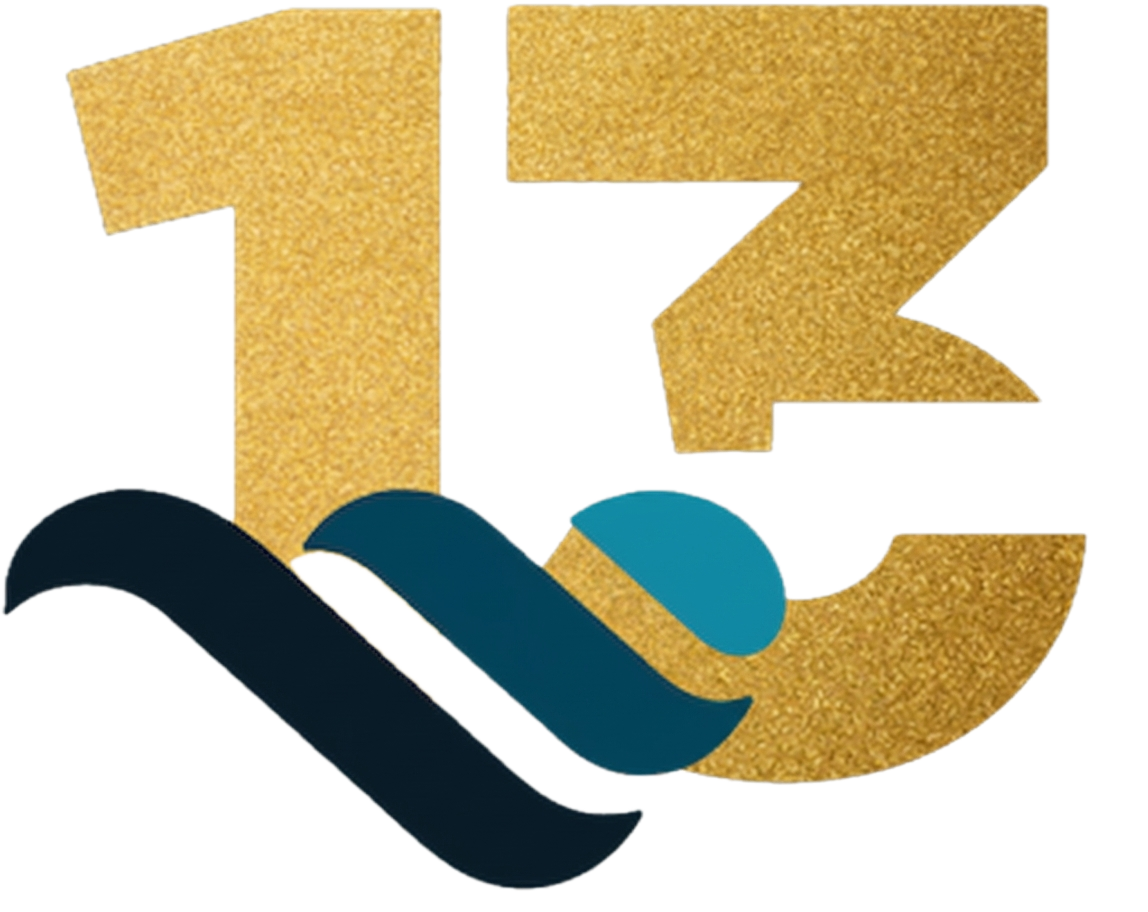
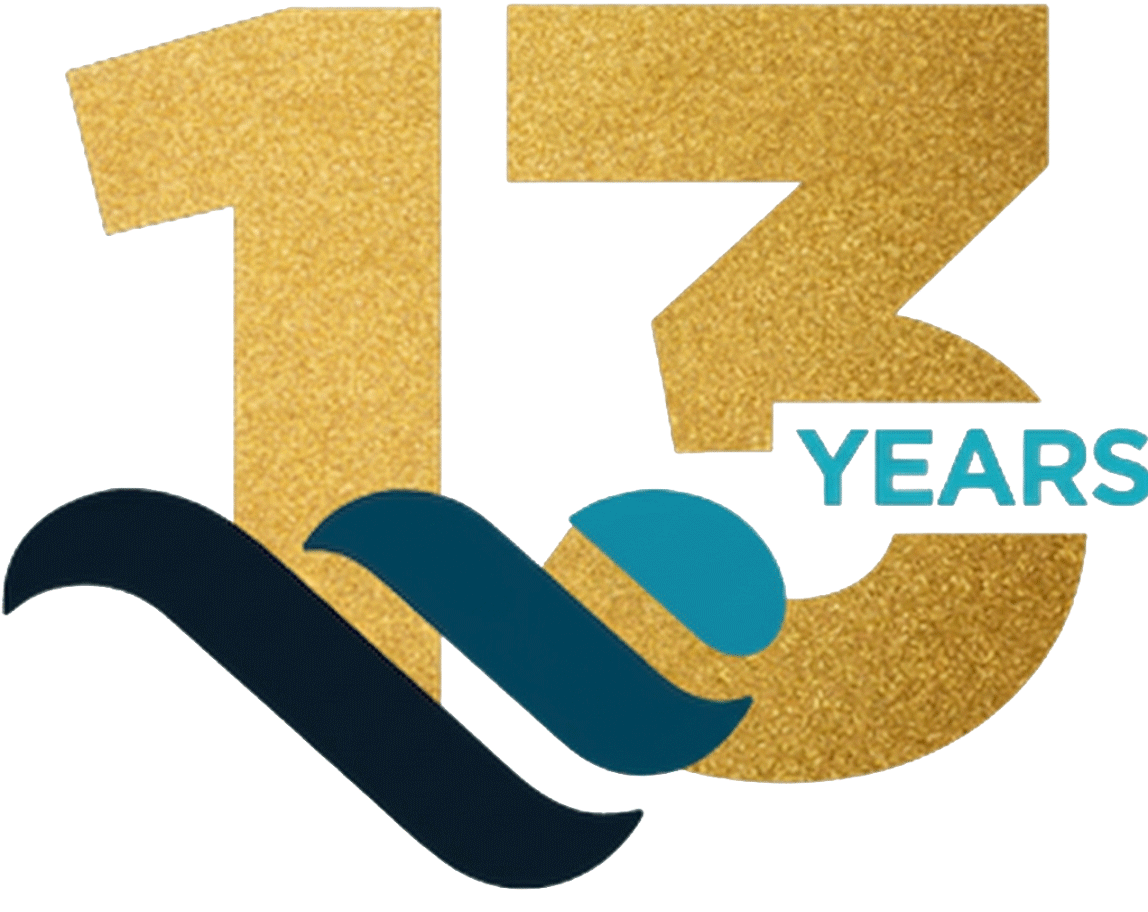
nuevas imagenes tech, 13 años y faq

diff --git a/lib/pools.ts b/lib/pools.ts
@@ -215,7 +215,7 @@ export const pools: Pool[] = [
     images: [
       '/iso-models/Pools/Neblina-Grande/Showroom/Neblina-Grande_Blythewood_11-1.avif',
       '/iso-models/Pools/Neblina-Grande/Showroom/IMG_5452-scaled.webp',
-      '/iso-models/Pools/Neblina-Grande/rShowroom/Neblina-Grande-8.jpg.JPEG.webp',
+      '/iso-models/Pools/Neblina-Grande/Showroom/Neblina-Grande-8.jpg.JPEG.webp',
       '/iso-models/Pools/Neblina-Grande/Showroom/Neblina-Grande-Tropical-Blue-1.-AquaPat-2024.webp',
     ],
     imagesIsoModels: [
@@ -223,7 +223,7 @@ export const pools: Pool[] = [
       '/iso-models/Pools/Neblina-Grande/Neblina-Grande-iso.png',
       '/iso-models/Pools/Neblina-Grande/Neblina-Grande-iso-2.png',
       '/iso-models/Pools/Neblina-Grande/Neblina-Grande-Pool-FBs.webp',
-      // '/iso-models/Pools/Neblina-Grande/neblina-grande-tech.png',
+      '/iso-models/Pools/Neblina-Grande/neblina-grande-tech-p.png',
     ],
     colors: poolColorNames,
     description: poolDesc('Neblina Grande', 'R1', "8'", "16'", "5'", 3500, 'rectangle'),
@@ -248,7 +248,7 @@ export const pools: Pool[] = [
       '/iso-models/Pools/Cali-Cove/Cali-Cove-plan.png',
       '/iso-models/Pools/Cali-Cove/Cali-Cove-iso.png',
       '/iso-models/Pools/Cali-Cove/Cali-Cove-iso-2.png',
-      // '/iso-models/Pools/Cali-Cove/Cali-Cove-tech.png',
+      '/iso-models/Pools/Cali-Cove/Cali-Cove-tech-p.png',
     ],
     colors: poolColorNames,
     description: poolDesc('Cali Cove', 'R4', '11\'6"', '22\'8"', '10"-3\'6"-5\'', 7000, 'freeform'),
@@ -274,7 +274,7 @@ export const pools: Pool[] = [
       '/iso-models/Pools/Costa-Rica/Costa-Rica-Pool-plan.png',
       '/iso-models/Pools/Costa-Rica/Costa-Rica-Pool-iso.png',
       '/iso-models/Pools/Costa-Rica/Costa-Rica-Pool-iso-2.png',
-      // '/iso-models/Pools/Costa-Rica/Costa-Rica-Pool-tech.png',
+      '/iso-models/Pools/Costa-Rica/Costa-Rica-tech-p.png',
     ],
     colors: poolColorNames,
     description: poolDesc('Costa Rica', 'R5', "12'", "25'", '3\'5"-5\'6"', 7000, 'freeform'),
@@ -300,7 +300,7 @@ export const pools: Pool[] = [
       '/iso-models/Pools/Costa-Beach/Costa-Beach-plan.png',
       '/iso-models/Pools/Costa-Beach/Costa-Beach-iso.png',
       '/iso-models/Pools/Costa-Beach/Costa-Beach-iso-2.png',
-      // '/iso-models/Pools/Costa-Beach/Costa-Beach-tech.png',
+      '/iso-models/Pools/Costa-Beach/Costa-Beach-tech-p.png',
     ],
     colors: poolColorNames,
     description: poolDesc('Costa Beach', 'R10', "12'", "27'", '10"-3\'6"-5\'6"', 7000, 'beach-entry'),
@@ -325,7 +325,7 @@ export const pools: Pool[] = [
       '/iso-models/Pools/Neblina-Beach/Neblina-Beach-plan.png',
       '/iso-models/Pools/Neblina-Beach/Neblina-Beach-iso.png',
       '/iso-models/Pools/Neblina-Beach/Neblina-Beach-iso-2.png',
-      '/iso-models/Pools/Neblina-Beach/Neblina-Beach-tech.png',
+      '/iso-models/Pools/Neblina-Beach/Neblina-Beach-tech-p.png',
       '/iso-models/Pools/Neblina-Beach/Neblina-Beach-with-Markup.webp',
     ],
     colors: poolColorNames,
@@ -351,7 +351,8 @@ export const pools: Pool[] = [
       '/iso-models/Pools/Colombian-Cove/Columbian-Cove-plan.png',
       '/iso-models/Pools/Colombian-Cove/Columbian-Cove-iso.png',
       '/iso-models/Pools/Colombian-Cove/Columbian-Cove-iso-2.png',
-      // '/iso-models/Pools/Colombian-Cove/Columbian-Cove-tech.png',
+      '/iso-models/Pools/Colombian-Cove/Colombia-Cove-tech-p.png',
+      
     ],
     colors: poolColorNames,
     description: poolDesc('Colombian Cove', 'R3', '11\'6"', '26\'4"', '10"-3\'6"-5\'4"', 7500, 'freeform'),
@@ -375,7 +376,7 @@ export const pools: Pool[] = [
       '/iso-models/Pools/Colombian/Columbian-Pool-plan.png',
       '/iso-models/Pools/Colombian/Columbian-Pool-iso.png',
       '/iso-models/Pools/Colombian/Columbian-Pool-iso-2.png',
-      // '/iso-models/Pools/Colombian/Columbian-Pool-tech.png',
+      '/iso-models/Pools/Colombian/Columbian-Pool-tech-p.png',
     ],
     colors: poolColorNames,
     description: poolDesc('Colombian', 'R2', '11\'5"', '26\'4"', '3\'6"-5\'4"', 8000, 'rectangle'),
@@ -401,7 +402,7 @@ export const pools: Pool[] = [
       '/iso-models/Pools/Colombian-Beach/Columbian-Beach-iso.png',
       '/iso-models/Pools/Colombian-Beach/Columbian-Beach-iso-2.png',      
       '/iso-models/Pools/Colombian-Beach/Columbian-Beach-FBs.png',
-      // '/iso-models/Pools/Colombian-Beach/Columbian-Beach-tech.png',
+      '/iso-models/Pools/Colombian-Beach/Columbian-Beach-tech-p.png',
     ],
     colors: poolColorNames,
     description: poolDesc('Colombian Beach', 'R9', '11\'6"', "32'", '10"-3\'6"-5\'4"', 9000, 'beach-entry'),
@@ -425,7 +426,7 @@ export const pools: Pool[] = [
     imagesIsoModels: [
       '/iso-models/Pools/Roatan/Roatan-Pool-plan.png',
       '/iso-models/Pools/Roatan/Roatan-Pool-iso.png',
-      // '/iso-models/Pools/Roatan/Roatan-Pool-tech.png',
+      '/iso-models/Pools/Roatan/Roatan-Pool-tech-p.png',
     ],
     colors: poolColorNames,
     description: poolDesc('Roatan', 'R6', "14'", "30'", '3\'5"-5\'11"', 10000, 'freeform'),
@@ -451,7 +452,7 @@ export const pools: Pool[] = [
       '/iso-models/Pools/Roatan-Beach/Roatan-Beach-plan.png',
       '/iso-models/Pools/Roatan-Beach/Roatan-Beach-iso.png',
       '/iso-models/Pools/Roatan-Beach/Roatan-Beach-iso-2.png',
-      // '/iso-models/Pools/Roatan-Beach/Roatan-Beach-tech.png',
+      '/iso-models/Pools/Roatan-Beach/Roatan-Beach-tech-p.png',
     ],
     colors: poolColorNames,
     description: poolDesc('Roatan Beach', 'R12', "14'", "35'", '10"-3\'6"-5\'11"', 10000, 'beach-entry'),
@@ -476,7 +477,7 @@ export const pools: Pool[] = [
       '/iso-models/Pools/Brasilia/Showroom/Brasilia-scaled.webp',
     ],
     imagesIsoModels: [
-      // '/iso-models/Pools/Brasilia/Brasilia-Tech.png',
+      '/iso-models/Pools/Brasilia/Brasilia-Tech-p.png',
       '/iso-models/Pools/Brasilia/Brasilia-Pool-FBs.png',
     ],
     colors: poolColorNames,
@@ -502,7 +503,7 @@ export const pools: Pool[] = [
     imagesIsoModels: [
       '/iso-models/Pools/Belize/Belize-Pool-plan.png',
       '/iso-models/Pools/Belize/Belize-Pool-iso.png',
-      // '/iso-models/Pools/Belize/Belize-Tech.png',
+      '/iso-models/Pools/Belize/Belize-Pool-tech-p.png',
     ],
     colors: poolColorNames,
     description: poolDesc('Belize', 'R8', "14'", "29'", "4'-6'", 11500, 'freeform'),
@@ -523,7 +524,7 @@ export const pools: Pool[] = [
       '/iso-models/Pools/Colombian-Resort/Showroom/Colombian-Resort-2.webp',
     ],
     imagesIsoModels: [
-      // '/iso-models/Pools/Colombian-Resort/Columbia-Resort-tech.png',
+      '/iso-models/Pools/Colombian-Resort/Colombian-Resort-tech-p.png',
     ],
     colors: poolColorNames,
     description: poolDesc('Colombian Resort', 'R13', "12'", "33'", '3\'5"-5\'4"', 7100, 'freeform'),
@@ -590,7 +591,7 @@ export const pools: Pool[] = [
     imagesIsoModels: [
       '/iso-models/Spas/Quatro/Quatro-Spa-plan.png',
       '/iso-models/Spas/Quatro/Quatro-Spa-iso.png',
-      // '/iso-models/Spas/Quatro/Quatro-Spa-tech.png',
+      '/iso-models/Spas/Quatro/Quatro-Spa-tech-p.png',
     ],
     colors: poolColorNames,
     description: spaDesc('Quatro', 'RS1', "8'", "8'", '3\'6"', 800),
@@ -614,7 +615,7 @@ export const pools: Pool[] = [
     imagesIsoModels: [
       '/iso-models/Spas/Cumba/Cumba-Spa-plan.png',
       '/iso-models/Spas/Cumba/Cumba-Spa-iso.png',
-      // '/iso-models/Spas/Cumba/Cumba-Spa-tech.png',
+      '/iso-models/Spas/Cumba/Cumba-Spa-tech-p.png',
     ],
     colors: poolColorNames,
     description: spaDesc('Cumba', 'RS2', "8'", "8'", '3\'7"', 800),
@@ -642,7 +643,7 @@ export const pools: Pool[] = [
     imagesIsoModels: [
       '/iso-models/Spas/Neblina/Neblina-Spa-plan.png',
       '/iso-models/Spas/Neblina/Neblina-Spa-iso.png',
-     // '/iso-models/Spas/Neblina/Neblina-Spa-tech.png',
+      '/iso-models/Spas/Neblina/Neblina-Spa-tech-p.png',
     ],
     colors: poolColorNames,
     description: spaDesc('Neblina', 'RS3', "8'", "10'", '3\'6"', 950),
@@ -664,7 +665,7 @@ export const pools: Pool[] = [
     imagesIsoModels: [      
       '/iso-models/Ledges/Natal-Ledge/Natal-Tan-Ledge-plan.png',
       '/iso-models/Ledges/Natal-Ledge/Natal-Tan-Ledge-iso.png',
-      // '/iso-models/Ledges/Natal-Ledge/Natal-Tan-Ledge-tech.png',
+      '/iso-models/Ledges/Natal-Ledge/Natal-Tan-Ledge-tech-p.png',
     ],
     colors: poolColorNames,
     description: ledgeDesc('Natal Ledge', 'RL1', "8'", "8'", '10"', 250),
@@ -686,7 +687,7 @@ export const pools: Pool[] = [
     imagesIsoModels: [
       '/iso-models/Ledges/Rio-Ledge/Rio-Tan-Ledge-plan.png',
       '/iso-models/Ledges/Rio-Ledge/Rio-Tan-Ledge-iso.png',
-     // '/iso-models/Ledges/Rio-Ledge/Rio-Tan-Ledge-tech.png',
+      '/iso-models/Ledges/Rio-Ledge/Rio-Tan-Ledge-tech-p.png',
     ],
     colors: poolColorNames,
     description: ledgeDesc('Rio Ledge', 'RL2', "8'", "10'", '10"', 400),

diff --git a/app/[locale]/layout.tsx b/app/[locale]/layout.tsx
@@ -1,5 +1,5 @@
 import type { Metadata } from 'next';
-import { Inter, Playfair_Display } from 'next/font/google';
+import { DM_Sans, Inter, Playfair_Display } from 'next/font/google';
 import { NextIntlClientProvider } from 'next-intl';
 import {  setRequestLocale } from 'next-intl/server';
 import { notFound } from 'next/navigation';
@@ -23,6 +23,12 @@ const inter = Inter({
 const playfair = Playfair_Display({
   subsets: ['latin'],
   variable: '--font-display',
+  display: 'swap',
+});
+
+const dmSans = DM_Sans({
+  subsets: ['latin'],
+  variable: '--font-about-body',
   display: 'swap',
 });
 
@@ -125,7 +131,7 @@ export default async function LocaleLayout({
   const messages = (await import(`@/messages/${params.locale}.json`)).default;
 
   return (
-    <html lang={params.locale} className={`${inter.variable} ${playfair.variable}`}>
+    <html lang={params.locale} className={`${inter.variable} ${playfair.variable} ${dmSans.variable}`}>
       <head>
         <script
           type="application/ld+json"

diff --git a/app/[locale]/faq/page.tsx b/app/[locale]/faq/page.tsx
@@ -93,7 +93,7 @@ export default function FaqsPage({ params: { locale } }: { params: { locale: str
           </div>
           <div className="glass-card overflow-hidden lg:sticky lg:top-28 relative aspect-[4/3]">
             <Image
-              src="/faq/img-faq.png"
+              src="/faq/img-faq-p.png"
               alt="Fiberglass pool FAQ"
               fill
               sizes="(max-width: 1024px) 100vw, 600px"

diff --git a/app/[locale]/info/faqs/page.tsx b/app/[locale]/info/faqs/page.tsx
@@ -93,7 +93,7 @@ export default function FaqsPage({ params: { locale } }: { params: { locale: str
           </div>
           <div className="glass-card overflow-hidden lg:sticky lg:top-28 ">
             <Image
-              src="/faq/img-faq.png"
+              src="/faq/img-faq-p.png"
               alt="Fiberglass pool FAQ"
               width={800}
               height={1200}
